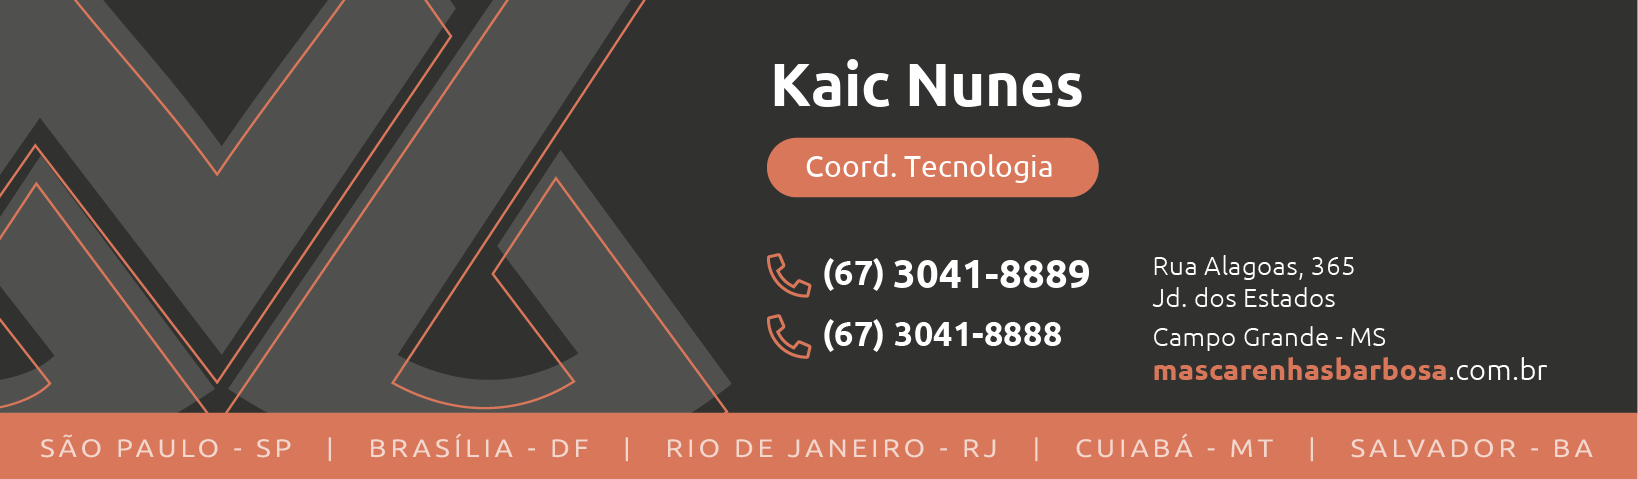
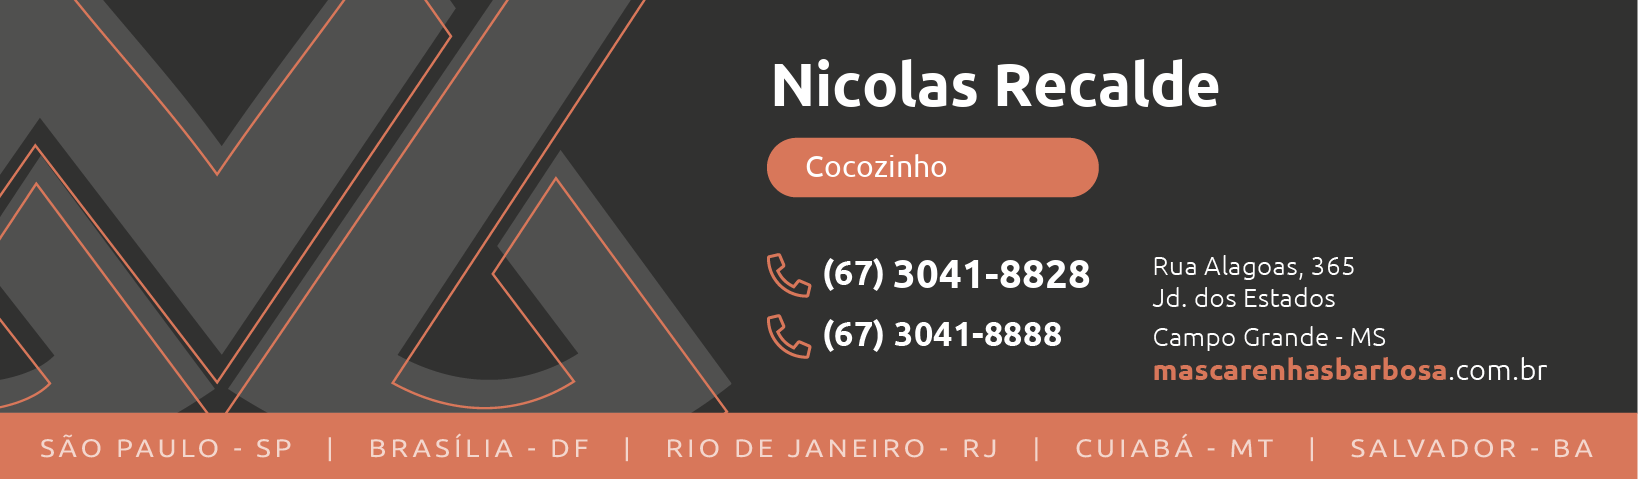
input e salvar documento com nome da pessoa

Changed region(s): [[0.467, 0.1169, 0.7473, 0.2338], [0.4982, 0.3215, 0.6538, 0.38], [0.6227, 0.5553, 0.685, 0.6138]]

diff --git a/main.py b/main.py
@@ -1,12 +1,18 @@
 from PIL import Image
 from PIL import ImageFont
 from PIL import ImageDraw
+
+
+nome = input('Nome:  ')
+cargo = input('Cargo: ')
+telefone = input('Telefone: ')
+
 img = Image.open("modelVazio.png")
 draw = ImageDraw.Draw(img)
 font = ImageFont.truetype("Ubuntu-B.ttf", 60)
 font2 = ImageFont.truetype("Ubuntu-R.ttf", 30)
 font3 = ImageFont.truetype("Ubuntu-B.ttf", 40)
-draw.text((770, 50), "Kaic Nunes", (255, 255, 255), font=font)
-draw.text((805, 149), "Coord. Tecnologia", (255, 255, 255), font=font2)
-draw.text((893, 250), "3041-8889", (255, 255, 255), font=font3)
-img.save('sample.png')
+draw.text((770, 50), nome, (255, 255, 255), font=font)
+draw.text((805, 149), cargo, (255, 255, 255), font=font2)
+draw.text((893, 250), telefone, (255, 255, 255), font=font3)
+img.save(nome+'.png')
